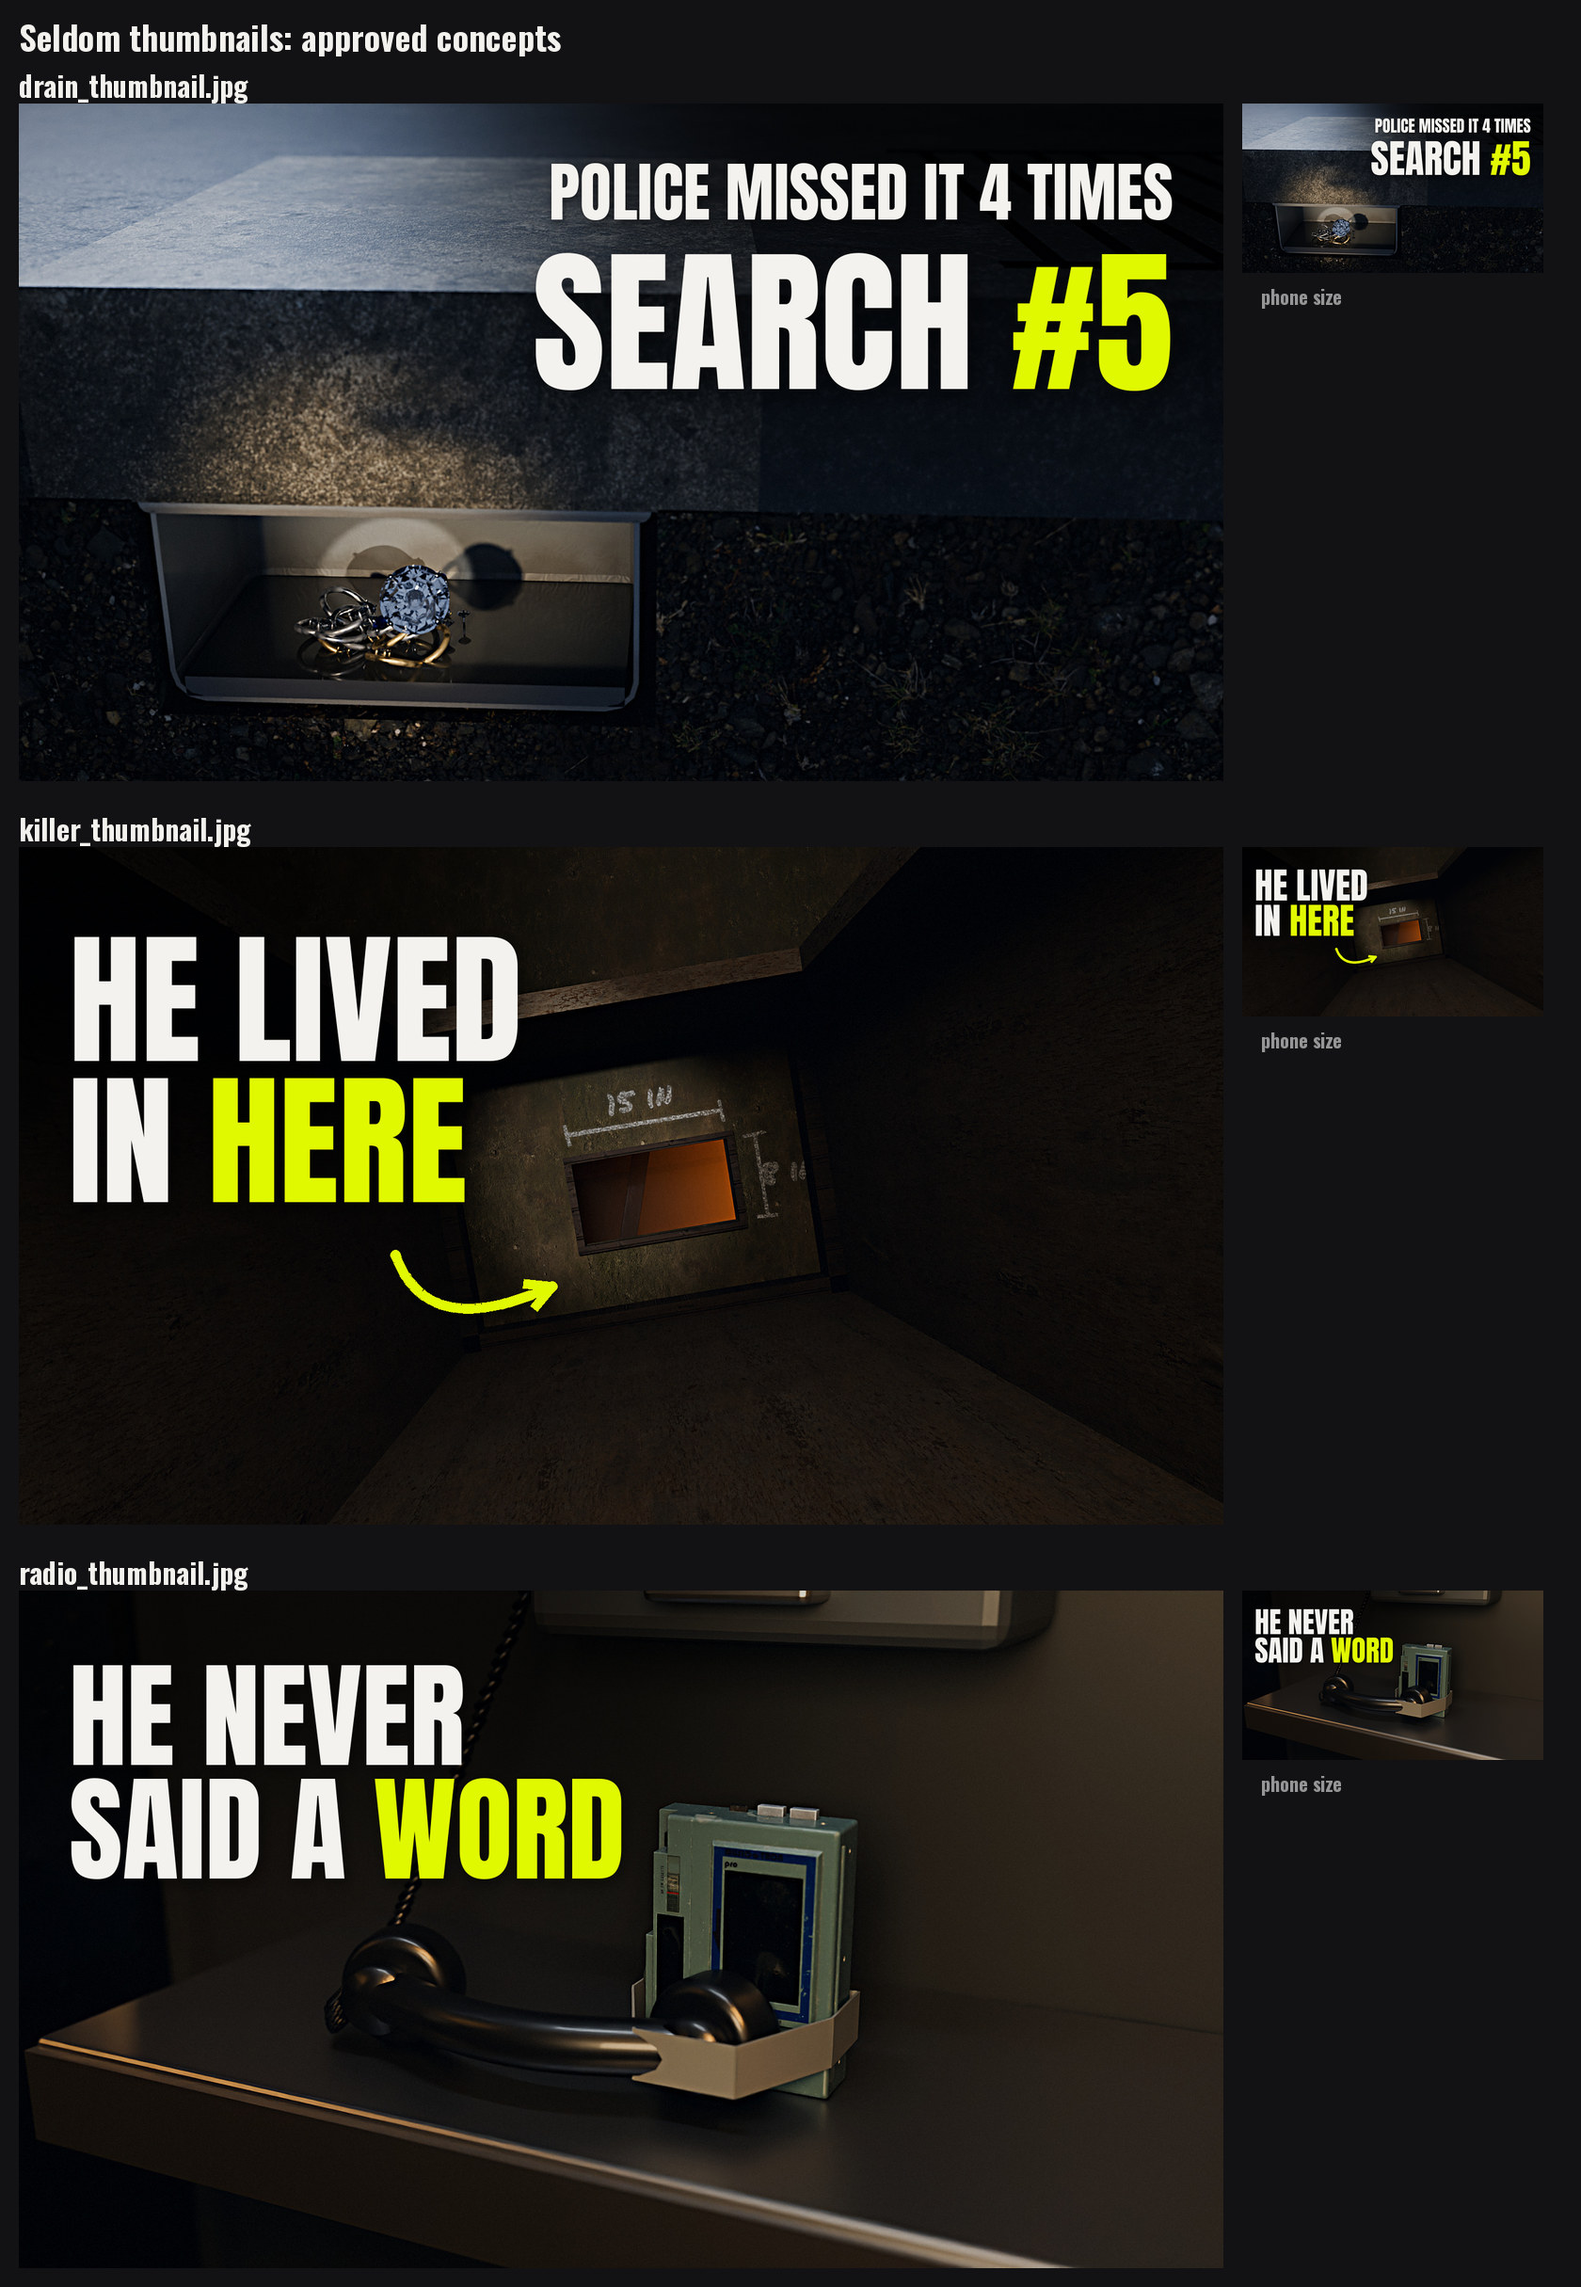
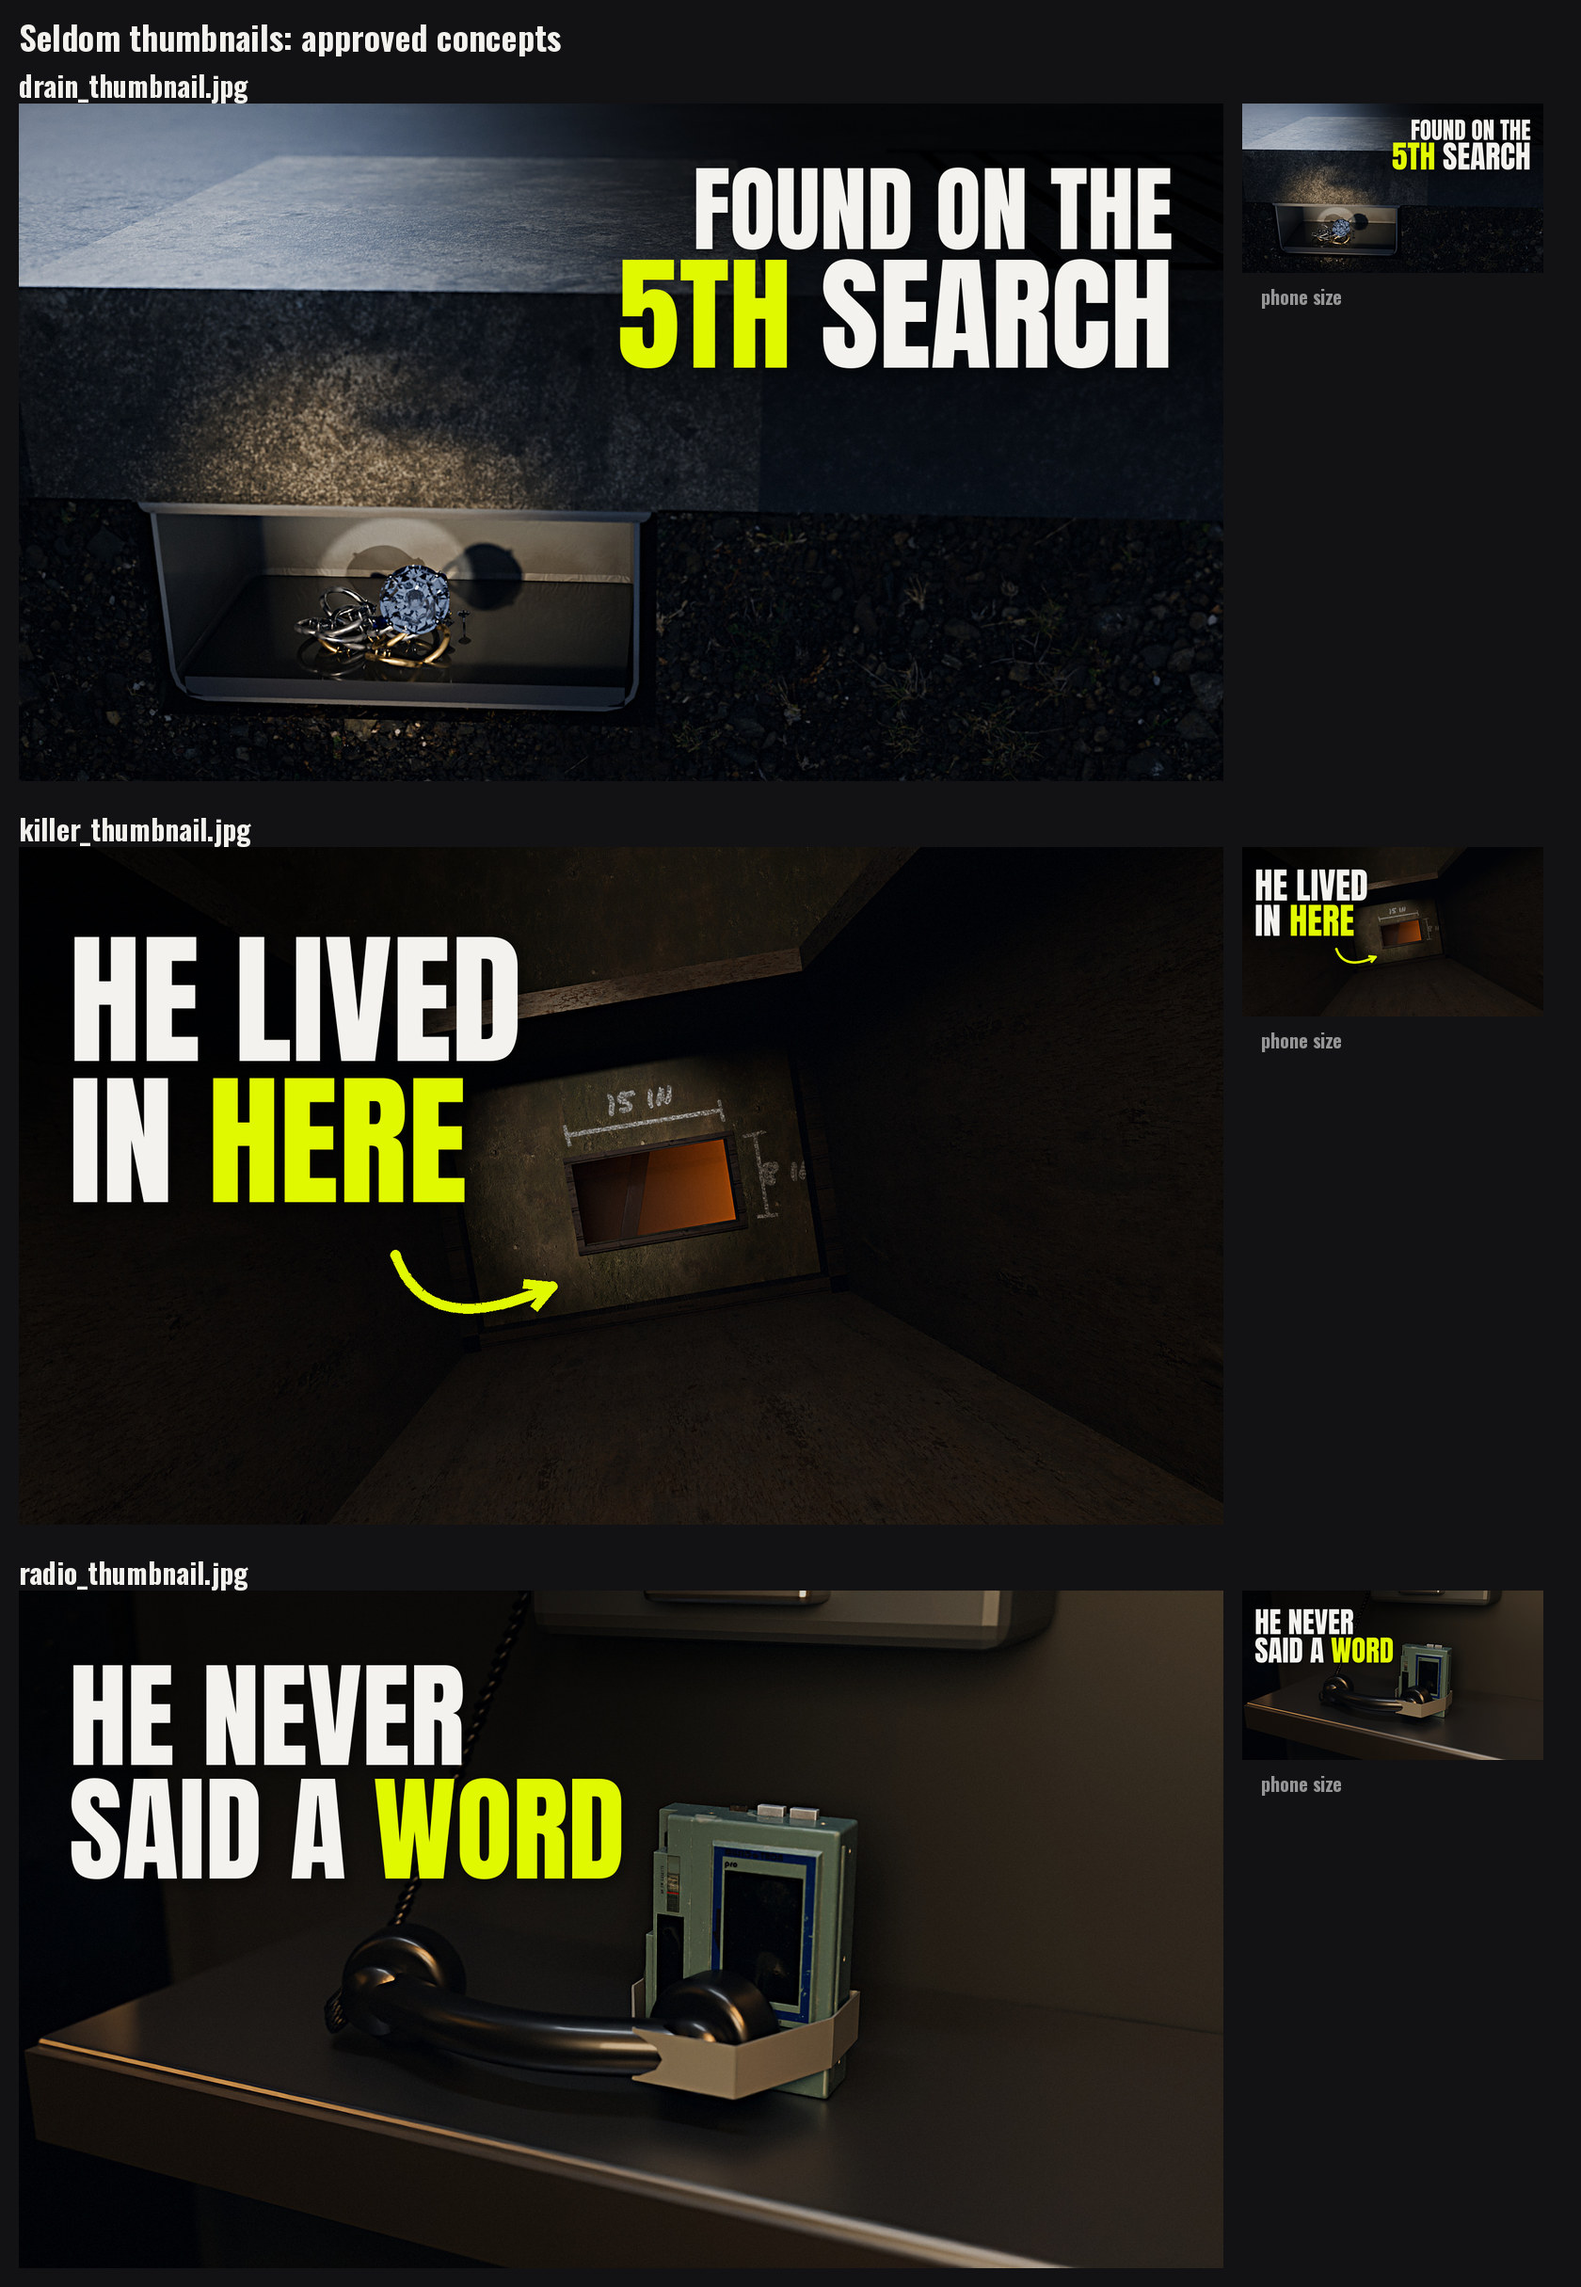
Drain text back to the user's wording: FOUND ON THE 5TH SEARCH
Claude-Session: https://claude.ai/code/session_01XfwPSoogVpigsa5wWhp6Ys

Changed region(s): [[0.3405, 0.0617, 0.7429, 0.1852], [0.8667, 0.0309, 0.9905, 0.0926]]

diff --git a/thumbnails_concepts/render/make.py b/thumbnails_concepts/render/make.py
@@ -70,8 +70,8 @@ def finish(name, plate, build):
 
 def drain(g):
     g = darken(g, (820, 0, W, 400), 0.8, 170)
-    t = draw_text(g, ["POLICE MISSED IT 4 TIMES"], W - 80, 62, 104, font="anton", color=WHITE, anchor="ra")
-    t = draw_text(t, [[("SEARCH ", WHITE), ("#5", LIME)]], W - 80, 160, 250, font="anton", anchor="ra")
+    t = draw_text(g, ["FOUND ON THE"], W - 80, 55, 150, font="anton", color=WHITE, anchor="ra")
+    t = draw_text(t, [[("5TH", LIME), (" SEARCH", WHITE)]], W - 80, 185, 200, font="anton", anchor="ra")
     return t
 
 
